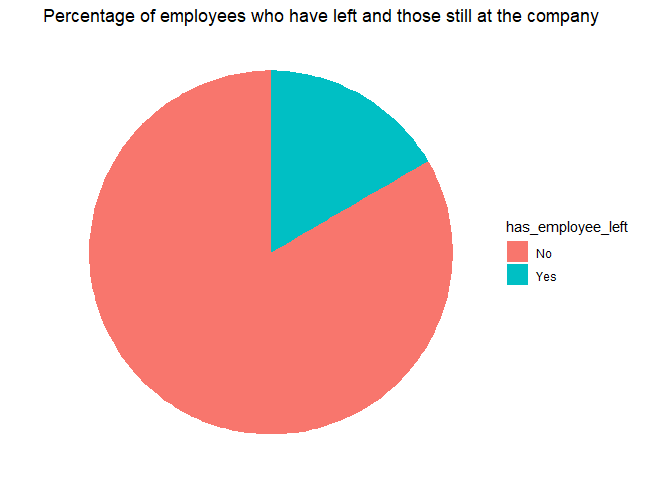
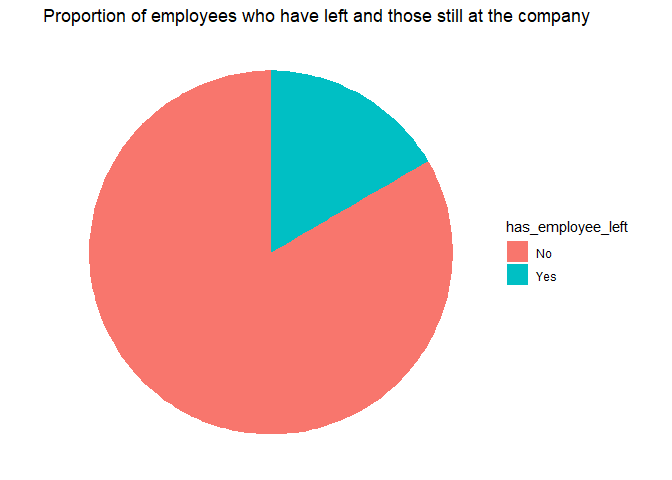
updated notebook

Changed region(s): [[0.0625, 0.0, 0.9062, 0.0625]]

diff --git a/Turnover_Report.md b/Turnover_Report.md
@@ -66,12 +66,11 @@ Tracy had these questions:
 
 -   What is the turnover rate from the dataset being examined?
 
--   What are the likely reasons why an employee may leave?
+-   Why might an employee may leave, and what characterises those who
+    stay?
 
--   What might make an employee stay?
-
--   What recommendations can guide Qeug in its quest to proactively keep
-    its employees?
+-   From the analysis done, what recommendations can guide Qeug in its
+    quest to proactively keep its employees?
 
 ### Executing the project
 
@@ -628,22 +627,26 @@ In addition, I visualized the proportion of employees who left compared
 to those who haven’t.
 
 ``` r
-data <- employee_profile_renamed %>%
+emp_prop <- employee_profile_renamed %>%
   group_by(has_employee_left = as.factor(recode(left, '0' = 'No', '1' = 'Yes'))) %>%
   summarise(count_left = n())
 
-ggplot(data, aes(x = "", y = count_left, fill = has_employee_left)) +
+ggplot(emp_prop, aes(x = "", y = count_left, fill = has_employee_left)) +
   geom_col() + 
-  labs(title= "Percentage of employees who have left and those still at the company") +
+  labs(title= "Proportion of employees who have left and those still at the company") +
   coord_polar(theta = "y") +   # there is no pie_chart function in ggplot2, hence the coord_polar feature is needed to help us curve a bar or column chart into a pie
   theme_void()
 ```
 
 ![](Turnover_Report_files/figure-gfm/unnamed-chunk-15-1.png)<!-- -->
 
-#### 2. What are the likely reasons why an employee may leave?
+#### 2. Why might an employee may leave, and what characterises those who stay?
 
-I began to answer this question by looking at the relationships between
+I put two questions in one here because it will be difficult to consider
+the conditions that made terminates leave without a corresponding look
+at what the environment might be for those still at the company.
+
+I began answering this question by looking at the relationships between
 variables in the dataset. The relationship between salary and other
 variables is an interesting one I wanted to see but, the salary column
 was in character type. We can only compare relationships between numeric
@@ -689,26 +692,84 @@ ggplot(cor, aes(x = Var1, y = Var2)) +
 
 ![](Turnover_Report_files/figure-gfm/unnamed-chunk-17-1.png)<!-- -->
 
-It appears not much is happening here. nearly all the relationships are
-weak; either weak positive or weak negative correlation.
+It appears not much is happening here. Between most of the variables,
+there is either no correlation or the relationship is weak; weak
+positive or weak negative.
 
-However, a highlight here is how salary shows little to no correlation
-with any of the other variables. This could mean that working more
-hours, taking up more projects, pulling a high score in the most recent
-evaluation exercise, or remaining with the company for longer, does not
-necessarily attract a raise or a higher salary.
+However, an insight to see here is how salary shows little to no
+correlation with any of the other variables. This could mean that
+working more hours, taking up more projects, pulling a high score in the
+most recent evaluation exercise, or remaining with the company for
+longer, may not necessarily attract a raise or a higher salary.
 
-Could this be an indication that time commitment, or length of service
-is not rewarded at this company? or maybe the reward for any of these is
-not a raise?
+Could this be an indication that time commitment, or length of service,
+for example, is not rewarded at this company? or maybe the reward for
+any of these is not a raise?
 
 Remember, correlation does not always imply causation.
 
-I examined the dataset more closely.
+Moving on, I wanted to see through the fields in the dataset, what
+characterised a terminate’s time at the company, compared to that of an
+employee who is still at the company
 
-**Did the terminates more hours while on the job?**
+**Were terminates satisfied?**
 
-Those who have left or those still at the company?
+From our summary statistics, the average satisfaction level is 0.62.
+While this looks moderate, is this so, or close to so, across board?
+
+``` r
+satisfaction_df <- employee_profile_renamed %>% 
+  group_by(has_employee_left = as.factor(recode(left, '0' = 'No', '1' = 'Yes'))) %>%
+  summarise(satisfaction = mean(satisfaction_level))
+
+satisfaction_df
+```
+
+    ## # A tibble: 2 × 2
+    ##   has_employee_left satisfaction
+    ##   <fct>                    <dbl>
+    ## 1 No                       0.667
+    ## 2 Yes                      0.440
+
+We can see that, satisfaction level for a terminate was below average
+while an employee still at the company exceeded it.
+
+I went ahead to look at what proportion of the terminates and retainees
+reached or surpassed the average satisfaction level.
+
+Note: I did not use count or, say, proportion of entire employees
+because the number of retainees far outweighs terminates. There are over
+5 times more retainees than terminates, so using any of these statistics
+would not provide a fair and accurate comparison. Also note that the
+figures will not yield a total percentage of 100% as they do not share
+the same denominator.
+
+``` r
+satisfaction_count = employee_profile_renamed %>%
+  filter(satisfaction_level >= 0.62) %>%
+  group_by(has_employee_left = as.factor(recode(left, '0' = 'No', '1' = 'Yes'))) %>%
+  summarise(number = n())
+
+sat_prop_left <- (satisfaction_count$number/emp_prop$count_left) *100  #remember emp_prop from the pie chart
+  
+  
+as.tibble(sat_prop_left)
+```
+
+    ## Warning: `as.tibble()` was deprecated in tibble 2.0.0.
+    ## Please use `as_tibble()` instead.
+    ## The signature and semantics have changed, see `?as_tibble`.
+    ## This warning is displayed once every 8 hours.
+    ## Call `lifecycle::last_lifecycle_warnings()` to see where this warning was generated.
+
+    ## # A tibble: 2 × 1
+    ##   value
+    ##   <dbl>
+    ## 1  62.2
+    ## 2  27.4
+
+We see here that while over 60% of retainees are satisfied, only about
+27% of those who left were satisfied on the job.
 
 ``` r
 hours <- employee_profile_renamed %>% 
@@ -730,7 +791,7 @@ ggplot(hours, aes(x = has_employee_left, y = average_hours)) +
   labs(title="Who works more hours?") 
 ```
 
-![](Turnover_Report_files/figure-gfm/unnamed-chunk-19-1.png)<!-- -->
+![](Turnover_Report_files/figure-gfm/unnamed-chunk-21-1.png)<!-- -->
 
 Hmmn. Looks like, on average, those employees who left work slightly
 more hours than their counterparts who remained at the company.
@@ -746,7 +807,7 @@ ggplot(employee_profile_renamed, aes(x = mean_monthly_hours)) +
 
     ## `stat_bin()` using `bins = 30`. Pick better value with `binwidth`.
 
-![](Turnover_Report_files/figure-gfm/unnamed-chunk-20-1.png)<!-- -->
+![](Turnover_Report_files/figure-gfm/unnamed-chunk-22-1.png)<!-- -->
 
 The focus here is not the height of the bins, but the spread.
 
@@ -755,6 +816,7 @@ hinted that some employees work for as long as 310 hours in a month.
 This histogram reveals that nearly, if not all of those employees who
 work for that long, are those who have left. From the chart, we can see
 that no employee who is still at the company work for to 300 hours.
+
 Another interesting insight here is that, while there are retained
 employees who worked for less than 100 hours in a month, none of the
 employees who left had that leisure. The least mean_monthly_hours for
@@ -763,33 +825,6 @@ terminates in a month was above 100 hours.
 Could the employees who left have done so because they had to work
 longer hours than others?
 
-Combined with insights from the bar chart, these are strong indications
-that working for longer hours especially when compared to that of fellow
+Combined with insights from the bar chart, these are indications that
+working for longer hours especially when compared to that of fellow
 employees, may have contributed to these employees leaving.
-
-``` r
-# collecting data for only employees who have left into another dataframe
-
-employees_left_only <- employee_profile_recoded %>%
-  filter(left == 1)
-```
-
-**Which group of employees are more satisfied?**
-
-From our summary statistics, a satisfaction level of 0.62 appears to be
-fair. But let’s see if this score is so across board or if it tilts
-towards either the retainees or terminates.
-
-``` r
-satisfaction <- employee_profile_renamed %>% 
-  group_by(has_employee_left = as.factor(recode(left, '0' = 'No', '1' = 'Yes'))) %>%
-  summarise(satisfaction = mean(satisfaction_level))
-
-satisfaction
-```
-
-    ## # A tibble: 2 × 2
-    ##   has_employee_left satisfaction
-    ##   <fct>                    <dbl>
-    ## 1 No                       0.667
-    ## 2 Yes                      0.440
